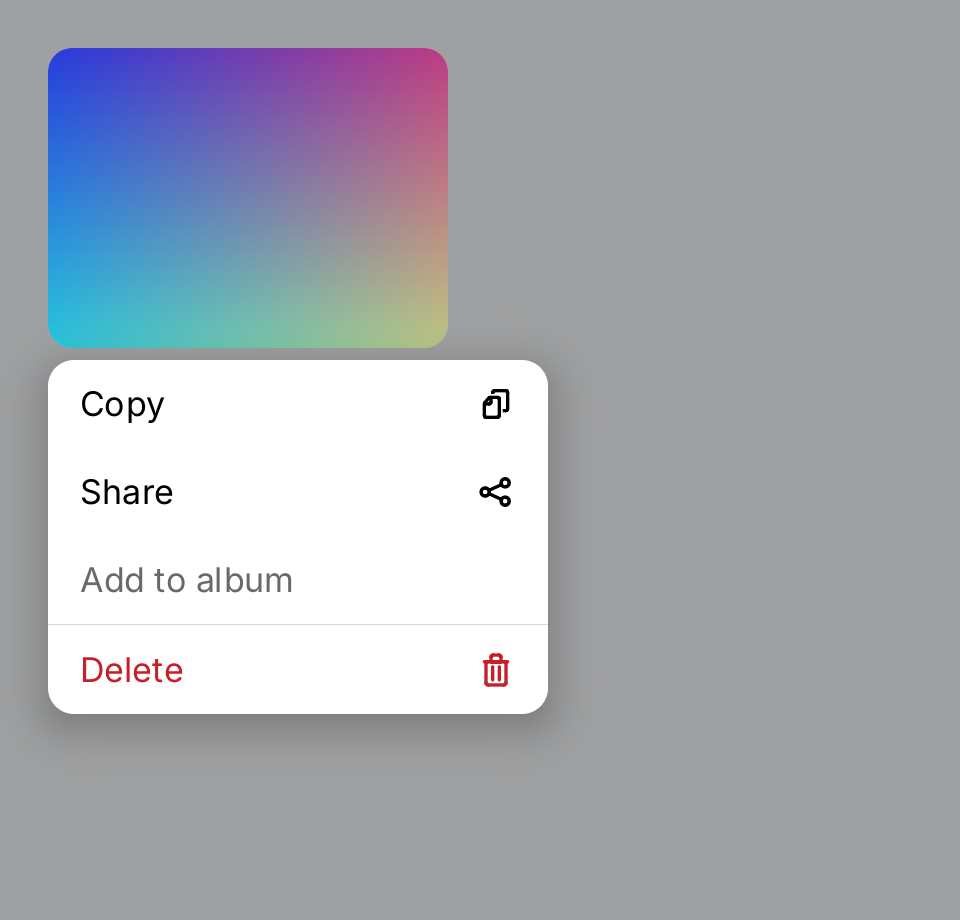
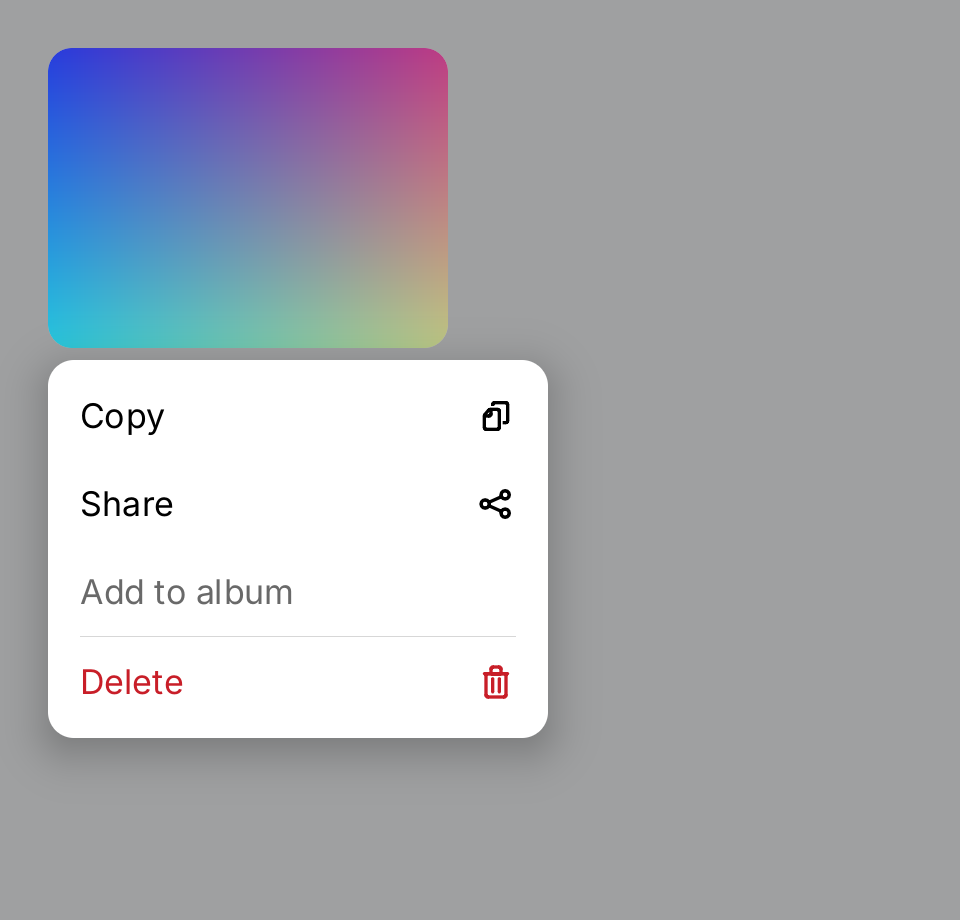
fix(ui): hairline section separators and an inset highlight in menus
A section of a menu was set apart by an eight point strip of the separator
colour, which read as a heavy bar on a light menu. It is now a hairline,
inset by the padding of the rows and snapped to a device pixel, with room
above and below it, as iOS 26 draws it; a divider inside a section is the
same hairline. The highlight of a row was a square that reached past the
rounded corners of the card on the first and the last row; it is now
inset and rounded concentrically with the card, with room for it above the
first row and below the last.

diff --git a/ui/menu.go b/ui/menu.go
@@ -22,7 +22,8 @@ const (
 	menuWidth      = float32(250)
 	menuRowHeight  = float32(44)
 	menuHeader     = float32(32)
-	menuSectionGap = float32(8)
+	menuSectionGap = float32(13)
+	menuListPad    = float32(6)
 	menuPadding    = float32(16)
 	menuIcon       = float32(20)
 	menuCheck      = float32(28)
@@ -86,7 +87,8 @@ type menuSection struct {
 func (menuSection) menuElement() {}
 
 // MenuSection returns items that belong together, set apart from the rest of
-// the menu by a band, under title when it is not empty.
+// the menu by a hairline with room above and below it, under title when it is
+// not empty.
 func MenuSection(title string, items ...MenuElement) MenuElement {
 	return menuSection{title: title, items: items}
 }
@@ -322,25 +324,29 @@ func (l menuList) Build(*gift.BuildContext) gift.Element {
 	return gift.Element{Key: "ui.menuList", Layouter: menuListLayout{}, Children: kids}
 }
 
-// menuListLayout stacks the rows at the menu's width.
+// menuListLayout stacks the rows at the menu's width, with room above the
+// first and below the last for the inset highlight; see [menuRowNode.Paint].
 type menuListLayout struct{}
 
 func (menuListLayout) Layout(ctx *gift.LayoutContext, c geom.Constraints) geom.Size {
 	w := min(menuWidth, c.Max.W)
-	var y float32
+	y := menuListPad
 	for i := range ctx.ChildCount() {
 		s := ctx.Measure(i, geom.Constraints{Min: geom.Sz(w, 0), Max: geom.Sz(w, geom.Unbounded())})
 		ctx.Place(i, geom.Pt(0, y))
 		y += s.H
 	}
 	ctx.ReportOverflow(geom.Size{})
-	return c.Constrain(geom.Sz(w, y))
+	return c.Constrain(geom.Sz(w, y+menuListPad))
 }
 
 var menuRuleType = gift.RegisterType("ui.menuRule")
 
-// menuRule is a hairline between two items, or the band between two
-// sections.
+// menuRule is a hairline between two items, or the space between two
+// sections with a hairline across its middle: the separators of iOS 26,
+// inset by the padding of the rows. The band of earlier versions of iOS, a
+// strip of the separator colour eight points tall, read as a heavy bar on a
+// light menu.
 type menuRule struct{ gap bool }
 
 func (menuRule) ViewType() gift.TypeID { return menuRuleType }
@@ -350,26 +356,28 @@ func (r menuRule) Build(*gift.BuildContext) gift.Element {
 	if r.gap {
 		h = menuSectionGap
 	}
-	n := &ruleNode{h: h, gap: r.gap, c: ResolveColor(ColorSeparator)}
+	n := &ruleNode{h: h, c: ResolveColor(ColorSeparator)}
 	return gift.Element{Layouter: n, Painter: n}
 }
 
 type ruleNode struct {
-	h   float32
-	gap bool
-	c   Color
+	h       float32
+	c       Color
+	density float32
 }
 
-func (n *ruleNode) Layout(_ *gift.LayoutContext, c geom.Constraints) geom.Size {
+func (n *ruleNode) Layout(ctx *gift.LayoutContext, c geom.Constraints) geom.Size {
+	n.density = ctx.Density()
 	return c.Constrain(geom.Sz(c.Max.W, n.h))
 }
 
+// Paint draws half a point, which is one device pixel on a panel of twice the
+// density and, snapped, one on the Pi.
 func (n *ruleNode) Paint(ctx *gift.PaintContext) {
 	b := ctx.Bounds()
-	if !n.gap {
-		b = geom.Rc(b.Min.X, b.Min.Y, b.Max.X, b.Min.Y+0.5)
-	}
-	ctx.Add(render.Op{Kind: render.OpFillRect, Bounds: b, Color: n.c})
+	mid := roundf(b.Min.Y + (b.Height()-0.5)/2)
+	top, th := snapHairline(mid, 0.5, b.Min.Y, ctx.DeviceBounds().Min.Y, n.density)
+	ctx.Add(render.Op{Kind: render.OpFillRect, Bounds: geom.Rc(b.Min.X+menuPadding, top, b.Max.X-menuPadding, top+th), Color: n.c})
 }
 
 // menuRow is one item: a check mark column when the menu has one, the title,
@@ -439,7 +447,10 @@ func (n *menuRowNode) Paint(ctx *gift.PaintContext) {
 	b := ctx.Bounds()
 	ia := ctx.Interaction()
 	if !n.r.spec.item.disabled && (st.highlight == i || ia.Pressed || ia.Hover) {
-		ctx.Add(render.Op{Kind: render.OpFillRect, Bounds: b, Color: ResolveColor(Fade(ColorLabel, 0.1))})
+		// Inset and rounded as on iOS 26, concentric with the corners of
+		// the card, so that the first and the last row stay inside them.
+		hl := geom.Rc(b.Min.X+menuListPad, b.Min.Y, b.Max.X-menuListPad, b.Max.Y)
+		ctx.Add(render.Op{Kind: render.OpFillRoundRect, Bounds: hl, Color: ResolveColor(Fade(ColorLabel, 0.1)), CornerRadius: panelRadius - menuListPad})
 	}
 	if n.r.spec.item.checked {
 		paintCheck(ctx, geom.Pt(b.Min.X+menuPadding+5, (b.Min.Y+b.Max.Y)/2), n.r.color)

diff --git a/docs/gallery/menu.go b/docs/gallery/menu.go
@@ -8,7 +8,7 @@ import (
 )
 
 func init() {
-	register(Demo{Name: "menu", Group: "dialogs", Width: 440, Height: 400, FullWindow: true,
+	register(Demo{Name: "menu", Group: "dialogs", Width: 440, Height: 420, FullWindow: true,
 		// A tap on the button opens the menu for the screenshot.
 		Input: `{"steps":[{"op":"waitFrames","frames":4},{"op":"tap","x":52,"y":44},{"op":"waitFrames","frames":40}]}`},
 		menuDemo)

diff --git a/PLAN.md b/PLAN.md
@@ -2476,7 +2476,8 @@ hatte `EventLongPress` bisher verarbeitet.
 |----------------------|-----------------------------------------------|
 | Menuebreite          | 250 pt                                        |
 | Zeilenhoehe          | 44 pt, Titel 17 pt, Symbol hinten 20 pt       |
-| Abschnitte           | 8 pt Band, optionale Ueberschrift 13 pt       |
+| Abschnitte           | Haarlinie, 16 pt eingerueckt, 13 pt hoch (iOS 26), Ueberschrift 13 pt |
+| Hervorhebung         | eingerueckt 6 pt, Radius 7 pt, konzentrisch zur Karte |
 | Eckenradius          | 13 pt                                         |
 | Pfeil                | 10 pt hoch, 20 pt breit                       |
 | Abstand zum Rand     | 8 pt                                          |

diff --git a/docs/gift.dev/content/docs/components/dialogs/menu/index.md b/docs/gift.dev/content/docs/components/dialogs/menu/index.md
@@ -35,7 +35,7 @@ ui.Menu(ui.Icon(outline.DotsHorizontal),
 | `.Destructive()`              | drawn in `ColorDanger`                                                           |
 | `.Disabled(b)`                | shown, not choosable                                                             |
 | `MenuDivider()`               | a hairline                                                                        |
-| `MenuSection(title, items...)` | items set apart by a band, under a small title when there is one                |
+| `MenuSection(title, items...)` | items set apart by a hairline with room around it, under a small title when there is one |
 
 ## Choosing
 
